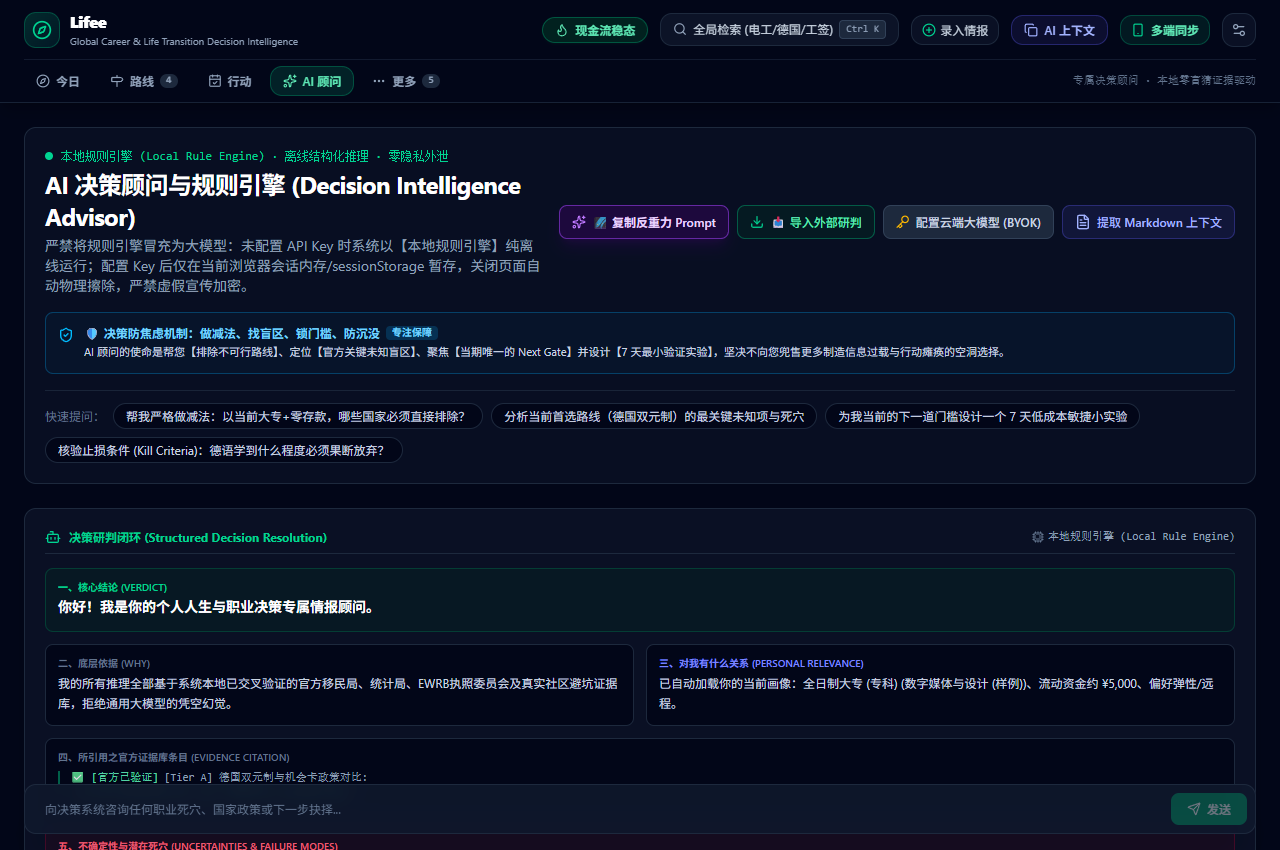
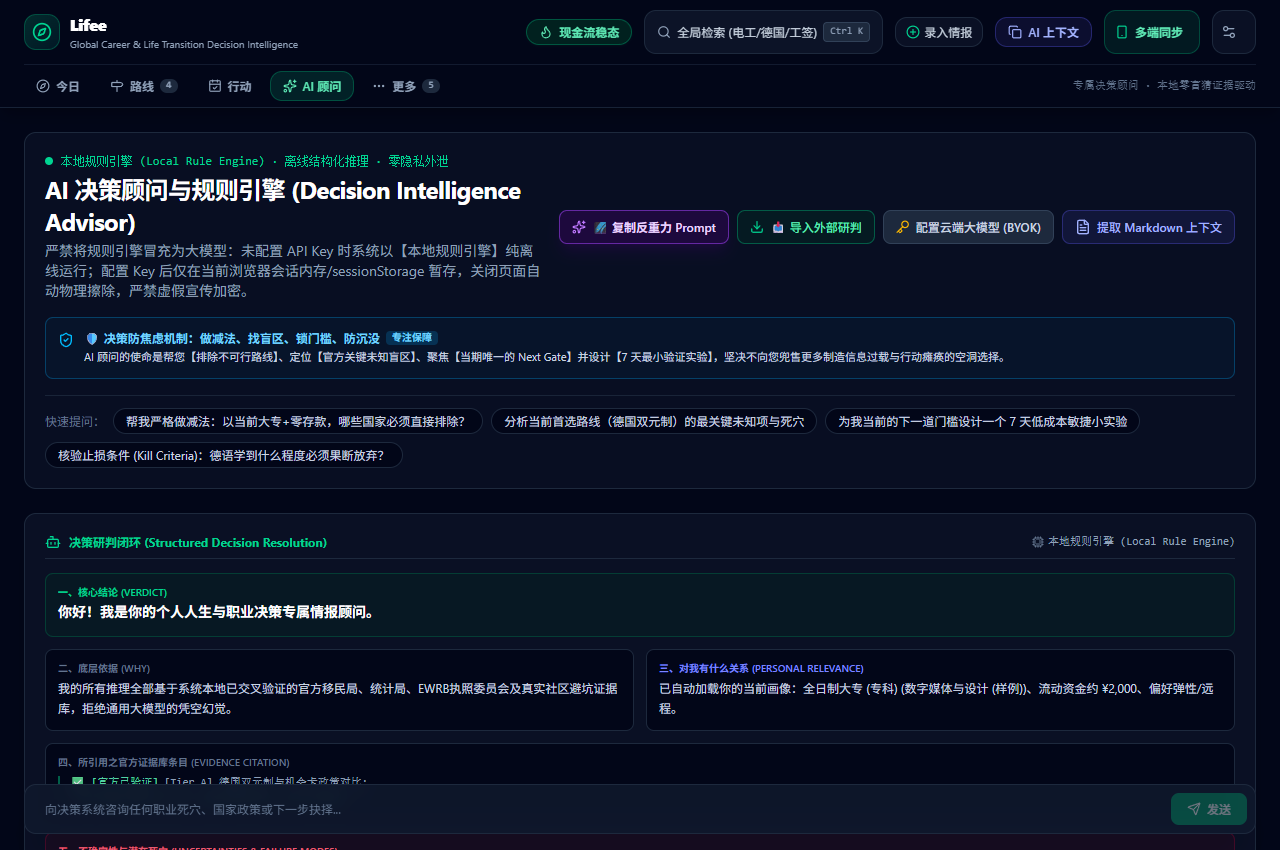
feat(mobile): optimize mobile layout with compact hero, touch swipe, collapsible SVG gazette, and iOS safe area padding

diff --git a/src/components/TodayDashboard.tsx b/src/components/TodayDashboard.tsx
@@ -24,7 +24,8 @@ import {
   Calendar,
   ArrowUpRight,
   ExternalLink,
-  SlidersHorizontal
+  SlidersHorizontal,
+  FileCheck2
 } from 'lucide-react';
 import { UserProfile, Pathway, IntelligenceEvent, DecisionMode, FreshnessStatus } from '../types';
 import { RunwayAnalysis } from '../engine/runway';
@@ -56,6 +57,28 @@ export const TodayDashboard: React.FC<TodayDashboardProps> = ({
   const [activeSlide, setActiveSlide] = useState(0);
   const [isCarouselPaused, setIsCarouselPaused] = useState(false);
   const [isActionsCollapsed, setIsActionsCollapsed] = useState(false);
+  const [isSvgExpanded, setIsSvgExpanded] = useState(false);
+  const [touchStartX, setTouchStartX] = useState<number | null>(null);
+
+  // Mobile Touch Swipe Gesture Support
+  const handleTouchStart = (e: React.TouchEvent) => {
+    setTouchStartX(e.touches[0].clientX);
+  };
+
+  const handleTouchEnd = (e: React.TouchEvent) => {
+    if (touchStartX === null) return;
+    const diff = touchStartX - e.changedTouches[0].clientX;
+    if (Math.abs(diff) > 45) {
+      if (diff > 0) {
+        // swipe left -> next slide
+        setActiveSlide(prev => (prev + 1) % heroSlides.length);
+      } else {
+        // swipe right -> previous slide
+        setActiveSlide(prev => (prev - 1 + heroSlides.length) % heroSlides.length);
+      }
+    }
+    setTouchStartX(null);
+  };
 
   const baseUrl = import.meta.env.BASE_URL || '/';
   const cleanBase = baseUrl.endsWith('/') ? baseUrl : `${baseUrl}/`;
@@ -246,18 +269,20 @@ export const TodayDashboard: React.FC<TodayDashboardProps> = ({
 
       {/* 2. OFFICIAL POLICY NEWS & GAZETTE INTELLIGENCE HERO */}
       <div 
-        className="relative overflow-hidden rounded-3xl border border-slate-800/90 bg-gradient-to-br from-slate-900/95 via-slate-950 to-slate-900/90 shadow-2xl transition-all p-5 sm:p-7 lg:p-8 space-y-5"
+        className="relative overflow-hidden rounded-3xl border border-slate-800/90 bg-gradient-to-br from-slate-900/95 via-slate-950 to-slate-900/90 shadow-2xl transition-all p-4 sm:p-7 lg:p-8 space-y-4 sm:space-y-5"
         onMouseEnter={() => setIsCarouselPaused(true)}
         onMouseLeave={() => setIsCarouselPaused(false)}
+        onTouchStart={handleTouchStart}
+        onTouchEnd={handleTouchEnd}
       >
-        {/* Top Category Tabs for Instant News Switching */}
-        <div className="flex flex-wrap items-center justify-between gap-3 pb-2 border-b border-slate-800/60">
-          <div className="flex flex-wrap items-center gap-1.5 sm:gap-2">
+        {/* Top Category Tabs for Instant News Switching - Horizontal scroll on mobile */}
+        <div className="flex items-center justify-between gap-2 pb-2 border-b border-slate-800/60">
+          <div className="flex items-center space-x-2 overflow-x-auto no-scrollbar pb-1 -mx-1 px-1 touch-pan-x shrink-0">
             {heroSlides.map((s, idx) => (
               <button
                 key={s.id}
                 onClick={() => setActiveSlide(idx)}
-                className={`rounded-xl px-3 py-1.5 text-xs font-semibold transition-all flex items-center space-x-1.5 cursor-pointer ${
+                className={`rounded-xl px-3 py-1.5 text-xs font-semibold whitespace-nowrap shrink-0 transition-all flex items-center space-x-1.5 cursor-pointer ${
                   activeSlide === idx
                     ? 'bg-emerald-500/15 text-emerald-300 border border-emerald-500/40 shadow-sm shadow-emerald-500/20'
                     : 'bg-slate-900/60 text-slate-400 border border-slate-800 hover:bg-slate-800 hover:text-slate-200'
@@ -269,7 +294,7 @@ export const TodayDashboard: React.FC<TodayDashboardProps> = ({
             ))}
           </div>
 
-          <div className="flex items-center space-x-2 text-[11px] text-slate-400">
+          <div className="hidden sm:flex items-center space-x-2 text-[11px] text-slate-400 shrink-0">
             <span className="rounded-full bg-slate-900 px-2.5 py-1 border border-slate-800 flex items-center space-x-1">
               <Clock className="h-3 w-3 text-slate-400" />
               <span>{currentSlide.officialDate}</span>
@@ -278,10 +303,10 @@ export const TodayDashboard: React.FC<TodayDashboardProps> = ({
         </div>
 
         {/* Main Split Grid: Left Editorial News / Right Official Gazette Card */}
-        <div className="grid grid-cols-1 lg:grid-cols-12 gap-6 items-center">
+        <div className="grid grid-cols-1 lg:grid-cols-12 gap-5 sm:gap-6 items-center">
           {/* Left Column: Official News Headline, Analysis, and CTAs (7 Cols) */}
-          <div className="lg:col-span-7 space-y-4">
-            <div className="flex flex-wrap items-center gap-2">
+          <div className="lg:col-span-7 space-y-3 sm:space-y-4">
+            <div className="flex flex-wrap items-center gap-1.5 sm:gap-2">
               <span className="rounded-md bg-slate-800 px-2 py-0.5 text-[11px] font-bold text-slate-200 border border-slate-700 flex items-center space-x-1">
                 <span>{currentSlide.flag}</span>
                 <span>{currentSlide.country}</span>
@@ -296,35 +321,62 @@ export const TodayDashboard: React.FC<TodayDashboardProps> = ({
             </div>
 
             {/* News Headline */}
-            <h1 className="text-lg sm:text-2xl lg:text-[26px] font-black tracking-tight text-white leading-snug">
+            <h1 className="text-base sm:text-2xl lg:text-[26px] font-black tracking-tight text-white leading-snug line-clamp-2 sm:line-clamp-none">
               {currentSlide.title}
             </h1>
 
             {/* News Summary */}
-            <p className="text-xs sm:text-sm text-slate-300 leading-relaxed">
+            <p className="text-xs sm:text-sm text-slate-300 leading-relaxed line-clamp-2 sm:line-clamp-none">
               {currentSlide.summary}
             </p>
 
             {/* Impact & Advantage Note */}
-            <div className="rounded-xl bg-slate-900/90 border border-slate-800 p-3 text-xs text-emerald-300/90 flex items-start space-x-2">
+            <div className="rounded-xl bg-slate-900/90 border border-slate-800 p-2.5 sm:p-3 text-xs text-emerald-300/90 flex items-start space-x-2">
               <Sparkles className="h-4 w-4 text-emerald-400 shrink-0 mt-0.5" />
-              <span>{currentSlide.impactNote}</span>
+              <span className="line-clamp-2 sm:line-clamp-none">{currentSlide.impactNote}</span>
             </div>
 
             {/* Metric Fact Badges */}
-            <div className="flex flex-wrap gap-2 pt-1">
+            <div className="flex flex-wrap gap-1.5 sm:gap-2 pt-0.5">
               {currentSlide.badges.map((b, idx) => (
-                <span key={idx} className={`rounded-lg px-2.5 py-1 text-xs font-semibold border ${b.color}`}>
+                <span key={idx} className={`rounded-lg px-2 sm:px-2.5 py-0.5 sm:py-1 text-[11px] sm:text-xs font-semibold border ${b.color}`}>
                   {b.label}
                 </span>
               ))}
             </div>
 
+            {/* Mobile Collapsible Gazette Document Card Drawer */}
+            <div className="lg:hidden pt-1">
+              <button
+                type="button"
+                onClick={() => setIsSvgExpanded(!isSvgExpanded)}
+                className="w-full flex items-center justify-between px-3 py-2 rounded-xl bg-slate-900/90 border border-slate-800 text-[11px] text-slate-300 hover:text-white transition-all cursor-pointer"
+              >
+                <span className="flex items-center space-x-1.5 text-emerald-400 font-medium">
+                  <FileCheck2 className="h-3.5 w-3.5" />
+                  <span>🏛 官方原件公报与防伪凭条</span>
+                </span>
+                <span className="text-slate-400 font-mono text-[10px]">
+                  {isSvgExpanded ? '收起公报 ▲' : '展开查看原件凭条 ▾'}
+                </span>
+              </button>
+
+              {isSvgExpanded && (
+                <div className="mt-2.5 relative rounded-2xl overflow-hidden border border-slate-700/80 bg-slate-950 shadow-xl transition-all">
+                  <img 
+                    src={currentSlide.bgImage} 
+                    alt={currentSlide.title} 
+                    className="w-full h-auto block select-none"
+                  />
+                </div>
+              )}
+            </div>
+
             {/* CTAs */}
-            <div className="pt-2 flex flex-wrap items-center gap-3">
+            <div className="pt-1 sm:pt-2 flex flex-wrap items-center gap-2 sm:gap-3">
               <button
                 onClick={() => handleBannerAction(currentSlide)}
-                className="flex items-center space-x-1.5 rounded-xl bg-gradient-to-r from-emerald-500 to-teal-500 px-4 py-2 text-xs font-bold text-slate-950 hover:from-emerald-400 hover:to-teal-400 transition-all shadow-lg shadow-emerald-500/20 cursor-pointer"
+                className="flex items-center space-x-1.5 rounded-xl bg-gradient-to-r from-emerald-500 to-teal-500 px-3.5 sm:px-4 py-2 text-xs font-bold text-slate-950 hover:from-emerald-400 hover:to-teal-400 transition-all shadow-lg shadow-emerald-500/20 cursor-pointer"
               >
                 <span>直达此项政策与路线测算</span>
                 <ArrowRight className="h-3.5 w-3.5" />
@@ -334,7 +386,7 @@ export const TodayDashboard: React.FC<TodayDashboardProps> = ({
                 href={currentSlide.sourceUrl}
                 target="_blank"
                 rel="noopener noreferrer"
-                className="flex items-center space-x-1.5 rounded-xl border border-slate-700 bg-slate-800/80 px-3.5 py-2 text-xs font-medium text-slate-300 hover:bg-slate-700 hover:text-white transition-all"
+                className="flex items-center space-x-1.5 rounded-xl border border-slate-700 bg-slate-800/80 px-3 sm:px-3.5 py-2 text-xs font-medium text-slate-300 hover:bg-slate-700 hover:text-white transition-all"
               >
                 <span>查看官方原文</span>
                 <ExternalLink className="h-3.5 w-3.5" />
@@ -342,8 +394,8 @@ export const TodayDashboard: React.FC<TodayDashboardProps> = ({
             </div>
           </div>
 
-          {/* Right Column: Official Policy Document Gazette Card (5 Cols) */}
-          <div className="lg:col-span-5 relative group/doc">
+          {/* Right Column: Official Policy Document Gazette Card (5 Cols, Desktop Only) */}
+          <div className="hidden lg:block lg:col-span-5 relative group/doc">
             <div className="relative rounded-2xl overflow-hidden border border-slate-700/80 bg-slate-950 shadow-2xl shadow-black/60 transition-transform duration-300 group-hover/doc:scale-[1.01]">
               <img 
                 src={currentSlide.bgImage} 
@@ -361,7 +413,7 @@ export const TodayDashboard: React.FC<TodayDashboardProps> = ({
         </div>
 
         {/* Bottom Pagination & Carousel Controls */}
-        <div className="pt-3 border-t border-slate-800/60 flex items-center justify-between text-xs">
+        <div className="pt-2 sm:pt-3 border-t border-slate-800/60 flex items-center justify-between text-xs">
           <div className="flex items-center space-x-2">
             {heroSlides.map((s, idx) => (
               <button
@@ -378,9 +430,9 @@ export const TodayDashboard: React.FC<TodayDashboardProps> = ({
             <span className="text-[11px] text-slate-400 ml-2 font-mono">
               0{activeSlide + 1} / 0{heroSlides.length}
             </span>
-            {isCarouselPaused && (
-              <span className="text-[10px] text-slate-500 italic hidden sm:inline">(已暂停轮播)</span>
-            )}
+            <span className="text-[10px] text-slate-500 hidden sm:inline">
+              (支持左右滑动手势)
+            </span>
           </div>
 
           <div className="flex items-center space-x-2">

diff --git a/src/components/Navbar.tsx b/src/components/Navbar.tsx
@@ -126,51 +126,56 @@ export const Navbar: React.FC<NavbarProps> = ({
           {/* Quick Search Button */}
           <button
             onClick={onOpenSearch}
-            className="flex items-center space-x-1.5 rounded-xl border border-slate-800 bg-slate-900/80 px-3 py-1.5 text-xs text-slate-300 hover:border-slate-700 hover:bg-slate-800 transition-all cursor-pointer shadow-xs"
+            className="flex items-center space-x-1.5 rounded-xl border border-slate-800 bg-slate-900/80 p-2 sm:px-3 sm:py-1.5 text-xs text-slate-300 hover:border-slate-700 hover:bg-slate-800 transition-all cursor-pointer shadow-xs touch-target-min"
+            title="全局搜索 (快捷键 Ctrl+K)"
           >
-            <Search className="h-3.5 w-3.5 text-slate-400" />
+            <Search className="h-4 w-4 sm:h-3.5 sm:w-3.5 text-slate-400" />
             <span className="hidden md:inline">全局检索 (电工/德国/工签)</span>
             <kbd className="hidden lg:inline rounded bg-slate-800 px-1.5 py-0.5 text-[10px] font-mono text-slate-400 border border-slate-700">
               Ctrl K
             </kbd>
           </button>
 
-          {/* Manual Evidence Quick Add */}
+          {/* Manual Evidence Quick Add (Desktop only, mobile available in More sheet) */}
           <button
             onClick={onOpenManualInbox}
-            className="flex items-center space-x-1 rounded-xl border border-slate-800 bg-slate-900/60 px-2.5 py-1.5 text-xs text-slate-300 hover:border-slate-700 hover:text-white transition-all cursor-pointer"
+            className="hidden md:flex items-center space-x-1 rounded-xl border border-slate-800 bg-slate-900/60 px-2.5 py-1.5 text-xs text-slate-300 hover:border-slate-700 hover:text-white transition-all cursor-pointer"
             title="手动录入新情报/帖子/链接"
           >
             <PlusCircle className="h-3.5 w-3.5 text-emerald-400" />
-            <span className="hidden sm:inline">录入情报</span>
+            <span>录入情报</span>
           </button>
 
-          {/* Copy AI Context */}
+          {/* Copy AI Context (Desktop only, mobile available in More sheet & profile toolbar) */}
           <button
             onClick={onOpenAiContext}
-            className="flex items-center space-x-1.5 rounded-xl border border-indigo-500/30 bg-indigo-500/10 px-3 py-1.5 text-xs font-semibold text-indigo-300 hover:bg-indigo-500/20 transition-all cursor-pointer shadow-xs"
+            className="hidden md:flex items-center space-x-1.5 rounded-xl border border-indigo-500/30 bg-indigo-500/10 px-3 py-1.5 text-xs font-semibold text-indigo-300 hover:bg-indigo-500/20 transition-all cursor-pointer shadow-xs"
             title="一键复制个人画像与Top3路线Markdown上下文"
           >
             <Copy className="h-3.5 w-3.5" />
-            <span className="hidden sm:inline">AI 上下文</span>
+            <span>AI 上下文</span>
           </button>
 
-          {/* Cross-Device Sync */}
+          {/* Cross-Device Sync (Active Beacon on Mobile) */}
           {onOpenSync && (
             <button
               onClick={onOpenSync}
-              className="flex items-center space-x-1.5 rounded-xl border border-emerald-500/30 bg-emerald-500/10 px-2.5 py-1.5 text-xs font-semibold text-emerald-300 hover:bg-emerald-500/20 transition-all cursor-pointer shadow-xs"
-              title="多设备数据互通 (PC / iPhone 16 Pro 一键同步)"
+              className="flex items-center space-x-1.5 rounded-xl border border-emerald-500/30 bg-emerald-500/10 p-2 sm:px-2.5 sm:py-1.5 text-xs font-semibold text-emerald-300 hover:bg-emerald-500/20 transition-all cursor-pointer shadow-xs touch-target-min relative"
+              title="多端无感同步 (PC · iPhone 16 Pro · 小米 14 Pro)"
             >
-              <Smartphone className="h-3.5 w-3.5 text-emerald-400" />
+              <Smartphone className="h-4 w-4 sm:h-3.5 sm:w-3.5 text-emerald-400" />
               <span className="hidden sm:inline">多端同步</span>
+              <span className="absolute -top-1 -right-1 flex h-2 w-2 sm:hidden">
+                <span className="animate-ping absolute inline-flex h-full w-full rounded-full bg-emerald-400 opacity-75"></span>
+                <span className="relative inline-flex rounded-full h-2 w-2 bg-emerald-500"></span>
+              </span>
             </button>
           )}
 
           {/* Settings */}
           <button
             onClick={onOpenSettings}
-            className="rounded-xl border border-slate-800 bg-slate-900/60 p-2 text-slate-400 hover:border-slate-700 hover:text-white transition-all cursor-pointer"
+            className="rounded-xl border border-slate-800 bg-slate-900/60 p-2 text-slate-400 hover:border-slate-700 hover:text-white transition-all cursor-pointer touch-target-min"
             title="个人画像与权重设置"
           >
             <Settings2 className="h-4 w-4" />

diff --git a/src/components/MobileBottomNav.tsx b/src/components/MobileBottomNav.tsx
@@ -71,7 +71,10 @@ export const MobileBottomNav: React.FC<MobileBottomNavProps> = ({
 
       {/* Routes Popover Sheet */}
       {activeSheet === 'routes' && (
-        <div className="fixed bottom-16 left-0 right-0 z-50 rounded-t-2xl border-t border-slate-800 bg-slate-900/98 p-4 shadow-2xl backdrop-blur-xl md:hidden">
+        <div 
+          className="fixed left-0 right-0 z-50 rounded-t-2xl border-t border-slate-800 bg-slate-900/98 p-4 shadow-2xl backdrop-blur-xl md:hidden"
+          style={{ bottom: 'calc(3.5rem + max(env(safe-area-inset-bottom, 0px), 8px))' }}
+        >
           <div className="flex items-center justify-between pb-3 border-b border-slate-800/80">
             <span className="text-sm font-semibold text-white flex items-center gap-1.5">
               <Milestone className="w-4 h-4 text-emerald-400" />
@@ -112,7 +115,10 @@ export const MobileBottomNav: React.FC<MobileBottomNavProps> = ({
 
       {/* More Popover Sheet */}
       {activeSheet === 'more' && (
-        <div className="fixed bottom-16 left-0 right-0 z-50 max-h-[75vh] overflow-y-auto rounded-t-2xl border-t border-slate-800 bg-slate-900/98 p-4 shadow-2xl backdrop-blur-xl md:hidden">
+        <div 
+          className="fixed left-0 right-0 z-50 max-h-[75vh] overflow-y-auto rounded-t-2xl border-t border-slate-800 bg-slate-900/98 p-4 shadow-2xl backdrop-blur-xl md:hidden"
+          style={{ bottom: 'calc(3.5rem + max(env(safe-area-inset-bottom, 0px), 8px))' }}
+        >
           <div className="flex items-center justify-between pb-3 border-b border-slate-800/80">
             <span className="text-sm font-semibold text-white flex items-center gap-1.5">
               <MoreHorizontal className="w-4 h-4 text-emerald-400" />
@@ -181,7 +187,7 @@ export const MobileBottomNav: React.FC<MobileBottomNavProps> = ({
       <nav 
         aria-label="Mobile Bottom Navigation"
         className="fixed bottom-0 left-0 right-0 z-40 flex items-center justify-around border-t border-slate-800/90 bg-slate-950/95 px-2 py-1 backdrop-blur-xl md:hidden"
-        style={{ paddingBottom: 'max(env(safe-area-inset-bottom, 0px), 6px)' }}
+        style={{ paddingBottom: 'max(env(safe-area-inset-bottom, 0px), 8px)' }}
       >
         {/* 1. 今日 */}
         <button
